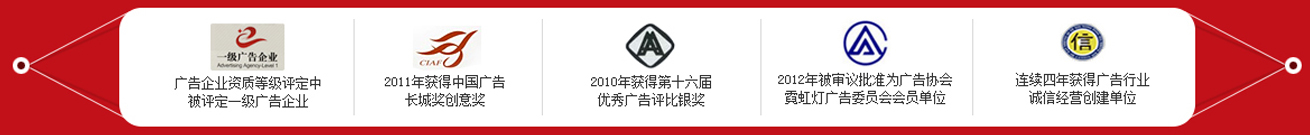
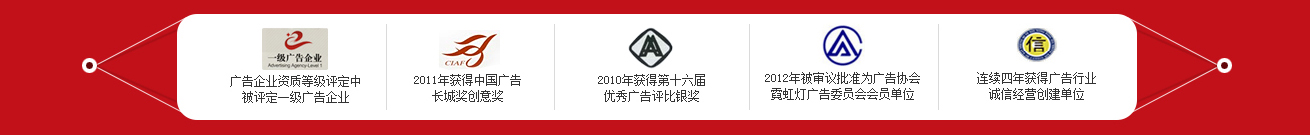
fjdkfjdkjfkldjklfj

diff --git a/SunShine.Web/Css/Bootstrap/style.css b/SunShine.Web/Css/Bootstrap/style.css
@@ -23,7 +23,8 @@ hr{margin:0px;padding:0px;}
 .logo { float:left; }
 .phone { float:right; }
 
-.tablist { width:100%; height:53px; background:#da251c;  max-width:1920px;z-index:9999}
+.tablist1{width: 100%;    max-width: 1440px;    margin: 0 auto;}
+.tablist { width:100%; height:53px; background:#da251c;  max-width:1440px;z-index:9999}
 .tablist ul { width:1000px; height:53px; line-height:53px; margin:0 auto; overflow:hidden; }
 .tablist ul li { float:left; font-size:16px;   text-align:center; height:53px; line-height:53px;width:111px;margin:0 7px}
 .tablist .no { background:none;}
@@ -33,7 +34,7 @@ hr{margin:0px;padding:0px;}
 
 .nav_scroll { margin: 0 auto; position: fixed;top: 0; width: 100%; max-width:1920px; z-index:999}
 
-.banner{ width:100%; max-width:1920px;margin:0px auto; overflow:hidden; margin-top:2px;}
+.banner{ width:100%; max-width:1440px;margin:0px auto; overflow:hidden; margin-top:2px;}
 .n_banner{width:1000px;margin:0px auto;height:250px; overflow:hidden;}
 .fullSlide{width:100%;position:relative;background:#EEE;margin:0 auto;}
 .fullSlide .md{margin:0 auto;position:relative;z-index:0;overflow:hidden;}
@@ -53,7 +54,7 @@ line-height: 18px; background:#cc0000;border:1px #cc0000 solid; font-size:12px; 
 .ss {width:295px; float:right; position:relative; }
 .ss input { width:245px; height:31px;  border:1px solid #c9c9c9; padding-left:5px;}
 .ss span { width:34px; height:33px; position: absolute; right: 10px; }
-.keyword {width: 682px; height:33px; float: left; overflow:hidden;font-size:16px}
+.keyword {width: 682px; height:33px; float: left; overflow:hidden;font-size:15px}
 
 .wrap {width:1010px;  margin:10px auto; overflow:hidden;}
 .zhankai{ width:226px; overflow:hidden; background:#000; height:36px; line-height:36px; color:#fff; text-align:center;}
@@ -144,9 +145,10 @@ line-height: 18px; background:#cc0000;border:1px #cc0000 solid; font-size:12px; 
 
 .gengduo {width:100px; height:30px; line-height:28px; border:#c9c9c9 1px solid; margin:10px auto;  background: #da251c;border-radius:20px}
 .gengduo a { font-size:14px; text-align:center; display:block;color:#fff}
-.hezuo {width:190px;height:340px;margin:10px auto;}
+.hezuo {width:190px;height:340px;margin:10px auto;text-align:center;}
 .hezuo h2 {color:black;margin-top:10px; font-weight:bold;font-size:15px;   }
-.hezuo p{line-height:1.8;font-size:14px;}
+    
+.hezuo p{line-height:1.8;font-size:14px;text-align:left;}
 .hezuo .caseimg{
     width:190px;
     height:126px;
@@ -197,7 +199,7 @@ line-height: 18px; background:#cc0000;border:1px #cc0000 solid; font-size:12px; 
 .content1_left{ float: left; width: 25px; height: 58px; overflow: hidden;margin-top: 160px;}
 .kehu{width:1030px; margin:0 auto;float: left; overflow:hidden;}
 .kehu ul {width:1030px; margin:20px 0 0 5px; overflow:hidden;}
-.kehu ul li { width:230px; height:335px; border:#dcdcdc 2px solid; float:left; margin:0 10px 0 14px; overflow:hidden; text-align:center}
+.kehu ul li { width:230px; height:335px; border:#dcdcdc 2px solid; float:left; margin:0 10px 0 14px; overflow:hidden; }
 .content1_right{ float: left; width: 25px; height: 58px; overflow: hidden;margin-top: 160px;}
 
 .advantage { width:100%; max-width:1440px; background:url(../images/fgz_25.jpg) no-repeat center; height:778px; overflow:hidden; margin:30px auto; font-size:16px;}

diff --git a/SunShine.Web/Css/Bootstrap/home.css b/SunShine.Web/Css/Bootstrap/home.css
@@ -8,6 +8,7 @@
 }
 
     #menu li.level1-li {
+        
         height: 35px;
         width: 243px;
         z-index: 10001;
@@ -24,9 +25,9 @@
 .hd {
     font-size: 17px;
     color: #FFF;
-    padding-left: 45px;
+    padding-left: 70px;
     padding-top: 0px;
-    width: 150px;
+    width: 200px;
     height: 43px;
     line-height: 43px;
     font-family: "Microsoft YaHei";
@@ -47,10 +48,11 @@
     /*color: #7e7f81;
             font-weight: bold;*/
     text-align: left;
-    padding-left: 45px;
+    padding-left: 70px;
     padding-top: 2px;
     font-family: "Microsoft YaHei";
     font-weight: 400;
+    /*text-align:center;*/
     /* background: url("../images/linedot.gif") repeat-x left bottom;*/
 }
 
@@ -75,7 +77,7 @@
 }
 
 .expandedImg {
-    padding-left: 10px;
+    padding-left: 40px;
     /*padding-top:2px; */
     padding-bottom: 2px;
     padding-bottom: 2px;
@@ -860,6 +862,8 @@ ul.thirdLevel {
 
 .honor_box {
     width: 100%;
+    max-width:1440px;
+    margin:0px auto;
     background-color: #c21119;
     padding-top: 30px;
     padding-bottom: 10px;
@@ -898,6 +902,8 @@ ul.thirdLevel {
 
 .site_bottom_bg {
     width: 100%;
+    max-width:1440px;
+    margin:0px auto;
     background-color: #383D41;
 }
 

diff --git a/SunShine.Web/Css/public.css b/SunShine.Web/Css/public.css
@@ -29,7 +29,7 @@
         font-size: 22px;
         font-weight:400;
     }
-    .cp_left .success_case_subtitle .subtitle_center{font-weight:400;}
+    .cp_left .success_case_subtitle .subtitle_center{font-weight:400; font-size:17px}
 
     .success_case_top .success_case_subtitle {
     }
